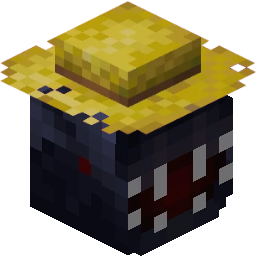
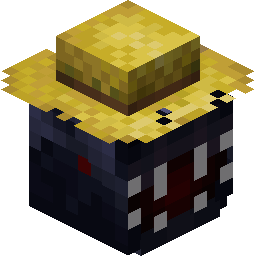
v2.1.3 - 26.1

diff --git a/src/client/java/namelessju/scathapro/Constants.java b/src/client/java/namelessju/scathapro/Constants.java
@@ -51,10 +51,11 @@ public class Constants
         return originalMagicFind * 1.05f;
     }
     
[2 lines of base64/hex data omitted]
     
     private static final String[] wormHeadTextures = new String[] {
-        /* default: */ wormHeadTextureDefault,
+        /* Scatha default: */ scathaHeadTextureDefault,
[4 lines of base64/hex data omitted]
@@ -72,7 +73,8 @@ public class Constants
[1 lines of base64/hex data omitted]
     };
     private static final String[] wormBodyTextures = new String[] {
[6 lines of base64/hex data omitted]
@@ -140,7 +142,7 @@ public class Constants
             .set(
                 DataComponents.PROFILE,
                 ResolvableProfile.createResolved(new GameProfile(Util.NIL_UUID, "", new PropertyMap(ImmutableMultimap.of(
-                    "textures", new Property("textures", wormHeadTextureDefault)
+                    "textures", new Property("textures", scathaHeadTextureDefault)
                 ))))
             )
             .set(DataComponents.CUSTOM_DATA, CustomData.EMPTY.update(data -> {

diff --git a/src/client/java/namelessju/scathapro/miscellaneous/data/enums/TimeFormat.java b/src/client/java/namelessju/scathapro/miscellaneous/data/enums/TimeFormat.java
@@ -5,40 +5,57 @@ import org.jetbrains.annotations.NotNull;
 import org.jetbrains.annotations.Nullable;
 
 import java.time.format.DateTimeFormatter;
-import java.time.format.FormatStyle;
 import java.time.temporal.TemporalAccessor;
+import java.util.Calendar;
+import java.util.Locale;
+import java.util.function.Supplier;
 
 public enum TimeFormat
 {
-    SYSTEM("Automatic", DateTimeFormatter.ofLocalizedTime(FormatStyle.SHORT), null),
-    FORMAT_24_HOURS("24 Hours", DateTimeFormatter.ofPattern("HH:mm"), null),
-    FORMAT_12_HOURS("12 Hours (AM/PM)", DateTimeFormatter.ofPattern("h:mm"), DateTimeFormatter.ofPattern(" a"));
+    SYSTEM("Automatic", new SupplierTimeFormatterContainer(
+        () -> getSystemTimeFormat().formatterContainer.hoursMinutesFormatter(),
+        () -> getSystemTimeFormat().formatterContainer.suffixFormatter()
+    )),
+    FORMAT_24_HOURS("24 Hours", new SimpleTimeFormatterContainer(
+        DateTimeFormatter.ofPattern("HH:mm"), null
+    )),
+    FORMAT_12_HOURS("12 Hours", new SimpleTimeFormatterContainer(
+        DateTimeFormatter.ofPattern("h:mm"), DateTimeFormatter.ofPattern(" a")
+    ));
     
-    private final DateTimeFormatter SECONDS_FORMATTER = DateTimeFormatter.ofPattern(":ss");
+    private static final boolean SYSTEM_IS_12_HOURS_FORMAT
+        = java.text.DateFormat.getTimeInstance(java.text.DateFormat.SHORT, Locale.getDefault())
+            .format(new Calendar.Builder().setFields(Calendar.HOUR_OF_DAY, 23, Calendar.MINUTE, 0).build().getTime())
+            .contains("11");
+    private static final DateTimeFormatter SECONDS_FORMATTER = DateTimeFormatter.ofPattern(":ss");
+    
+    private static @NotNull TimeFormat getSystemTimeFormat()
+    {
+        return SYSTEM_IS_12_HOURS_FORMAT ? FORMAT_12_HOURS : FORMAT_24_HOURS;
+    }
     
     private final @NotNull String displayName;
-    private final @NotNull DateTimeFormatter hoursMinutesFormatter;
-    private final @Nullable DateTimeFormatter suffixFormatter;
+    private final @NotNull TimeFormatterContainer formatterContainer;
     
-    TimeFormat(@NotNull String displayName, @NotNull DateTimeFormatter hoursMinutesFormatter, @Nullable DateTimeFormatter suffixFormatter)
+    TimeFormat(@NotNull String displayName, @NotNull TimeFormatterContainer formatterContainer)
     {
         this.displayName = displayName;
-        this.hoursMinutesFormatter = hoursMinutesFormatter;
-        this.suffixFormatter = suffixFormatter;
+        this.formatterContainer = formatterContainer;
     }
     
     public @NotNull String format(@NotNull TemporalAccessor time, boolean withSeconds)
     {
         StringBuilder stringBuilder = new StringBuilder();
-        stringBuilder.append(hoursMinutesFormatter.format(time));
+        stringBuilder.append(formatterContainer.hoursMinutesFormatter().format(time));
         if (withSeconds) stringBuilder.append(SECONDS_FORMATTER.format(time));
+        DateTimeFormatter suffixFormatter = formatterContainer.suffixFormatter();
         if (suffixFormatter != null) stringBuilder.append(suffixFormatter.format(time));
         return stringBuilder.toString();
     }
     
     public @NotNull String formatHoursMinutes(@NotNull TemporalAccessor time)
     {
-        return hoursMinutesFormatter.format(time);
+        return formatterContainer.hoursMinutesFormatter().format(time);
     }
     
     public @NotNull String formatSeconds(@NotNull TemporalAccessor time)
@@ -48,6 +65,7 @@ public enum TimeFormat
     
     public @Nullable String formatSuffix(@NotNull TemporalAccessor time)
     {
+        DateTimeFormatter suffixFormatter = formatterContainer.suffixFormatter();
         if (suffixFormatter == null) return null;
         return suffixFormatter.format(time);
     }
@@ -61,5 +79,34 @@ public enum TimeFormat
     public String toString()
     {
         return displayName;
+    }
+    
+    private interface TimeFormatterContainer
+    {
+        @NotNull DateTimeFormatter hoursMinutesFormatter();
+        @Nullable DateTimeFormatter suffixFormatter();
+    }
+    
+    private record SimpleTimeFormatterContainer(
+            @NotNull DateTimeFormatter hoursMinutesFormatter,
+            @Nullable DateTimeFormatter suffixFormatter
+        ) implements TimeFormatterContainer {}
+    
+    private record SupplierTimeFormatterContainer(
+            @NotNull Supplier<@NotNull DateTimeFormatter> hoursMinutesFormatterSupplier,
+            @NotNull Supplier<@Nullable DateTimeFormatter> suffixFormatterSupplier
+        ) implements TimeFormatterContainer
+    {
+        @Override
+        public @NotNull DateTimeFormatter hoursMinutesFormatter()
+        {
+            return hoursMinutesFormatterSupplier.get();
+        }
+        
+        @Override
+        public @Nullable DateTimeFormatter suffixFormatter()
+        {
+            return suffixFormatterSupplier.get();
+        }
     }
 }

diff --git a/src/client/java/namelessju/scathapro/gui/menus/screens/settings/MiscellaneousSettingsScreen.java b/src/client/java/namelessju/scathapro/gui/menus/screens/settings/MiscellaneousSettingsScreen.java
@@ -19,6 +19,7 @@ import net.minecraft.network.chat.MutableComponent;
 import org.apache.commons.compress.utils.Lists;
 import org.jspecify.annotations.NonNull;
 
+import java.time.LocalTime;
 import java.util.List;
 
 public class MiscellaneousSettingsScreen extends ConfigScreen
@@ -42,9 +43,12 @@ public class MiscellaneousSettingsScreen extends ConfigScreen
                 config.accessibility.timeFormat.get()
             )
             .withValues(TimeFormat.values())
+            .withTooltip(value -> Tooltip.create(Component.literal(
+                "Example: " + value.format(LocalTime.now(), false)
+            ).withStyle(ChatFormatting.GRAY)))
             .create(
                 Component.literal("Time Format"),
-                (button, value) -> scathaPro.config.accessibility.timeFormat.set(value)
+                (_, value) -> scathaPro.config.accessibility.timeFormat.set(value)
             )
         );
         list.addSingleColumn(CycleButton.builder(
@@ -52,16 +56,19 @@ public class MiscellaneousSettingsScreen extends ConfigScreen
                 config.accessibility.dateFormat.get()
             )
             .withValues(DateFormat.values())
+            .withTooltip(value -> Tooltip.create(Component.literal(
+                "Example: " + value.format(TimeUtil.today())
+            ).withStyle(ChatFormatting.GRAY)))
             .create(
                 Component.literal("Date Format"),
-                (button, value) -> scathaPro.config.accessibility.dateFormat.set(value)
+                (_, value) -> scathaPro.config.accessibility.dateFormat.set(value)
             )
         );
         
         list.addDoubleColumn(booleanConfigButton(
             "Automatic Bestiary Parsing",
             config.miscellaneous.automaticStatsParsingEnabled,
-            value -> Tooltip.create(
+            _ -> Tooltip.create(
                 Component.literal("Automatically reads kills and bestiary Magic Find from the worm bestiary menu")
                     .withStyle(ChatFormatting.GRAY)
             ), null
@@ -69,10 +76,10 @@ public class MiscellaneousSettingsScreen extends ConfigScreen
         
         list.addDoubleColumn(booleanConfigButton(
             "High Contrast Colors", config.accessibility.useHighContrastColors,
-            value -> Tooltip.create(
+            _ -> Tooltip.create(
                 Component.literal("Turns gray overlay\nand title text to white").withStyle(ChatFormatting.GRAY)
             ),
-            (button, value) -> scathaPro.mainOverlay.updateContrast()
+            (_, _) -> scathaPro.mainOverlay.updateContrast()
         ));
         
         if (scathaPro.getProfileData().lastAprilFoolsJokeShownYear.getOr(-1) >= 0)
@@ -115,7 +122,7 @@ public class MiscellaneousSettingsScreen extends ConfigScreen
                 googlyEyesButton = booleanConfigButton(
                     "Overlay Icon Googly Eyes",
                     config.unlockables.overlayIconGooglyEyesEnabled,
-                    null, (button, value) -> updateGooglyEyesButtonEnabled()
+                    null, (_, _) -> updateGooglyEyesButtonEnabled()
                 );
                 updateGooglyEyesButtonEnabled();
                 list.addDoubleColumn(googlyEyesButton);

diff --git a/src/client/java/namelessju/scathapro/gui/menus/screens/settings/PetDropSettingsScreen.java b/src/client/java/namelessju/scathapro/gui/menus/screens/settings/PetDropSettingsScreen.java
@@ -10,6 +10,7 @@ import net.minecraft.client.gui.components.Button;
 import net.minecraft.client.gui.components.Tooltip;
 import net.minecraft.client.gui.layouts.HeaderAndFooterLayout;
 import net.minecraft.client.gui.screens.Screen;
+import net.minecraft.core.registries.BuiltInRegistries;
 import net.minecraft.network.chat.Component;
 import net.minecraft.util.Mth;
 import net.minecraft.world.item.Items;
@@ -46,6 +47,7 @@ public class PetDropSettingsScreen extends ConfigScreen
                     .withStyle(ChatFormatting.GRAY)
             ), null
         ));
+        
         Button popupPreviewButton;
         gridBuilder.addSingleCell(popupPreviewButton = Button.builder(Component.literal("Play Preview"),
             _ -> scathaPro.itemPopupRenderer.popup(
@@ -55,15 +57,14 @@ public class PetDropSettingsScreen extends ConfigScreen
                     true
                 )
             ).build());
-        // No idea what method you're supposed to use instead so just ignore the damn warning
-        //noinspection deprecation
-        if (!Items.PLAYER_HEAD.builtInRegistryHolder().areComponentsBound())
+        if (!BuiltInRegistries.ITEM.wrapAsHolder(Items.PLAYER_HEAD).areComponentsBound())
         {
             popupPreviewButton.active = false;
             popupPreviewButton.setTooltip(Tooltip.create(
                 Component.literal("Items aren't loaded yet,\ncannot render preview").withStyle(ChatFormatting.YELLOW)
             ));
         }
+        
         gridBuilder.addGap();
         gridBuilder.addSingleCell(booleanConfigButton("Firework Explosion", config.petDrop.fireworkEnabled,
             _ -> Tooltip.create(
@@ -76,6 +77,12 @@ public class PetDropSettingsScreen extends ConfigScreen
         gridBuilder.addToContent(layout);
         
         addDoneButtonFooter();
+    }
+    
+    @Override
+    public boolean isPauseScreen()
+    {
+        return false;
     }
     
     @Override

diff --git a/src/client/java/namelessju/scathapro/files/legacy/LegacyConfig.java b/src/client/java/namelessju/scathapro/files/legacy/LegacyConfig.java
@@ -32,7 +32,7 @@ public class LegacyConfig extends ScathaProFile
     
     public LegacyConfig(ScathaPro scathaPro)
     {
-        super(scathaPro, scathaPro.getConfigDirectoryPath().resolve("config.cfg").toFile());
+        super(scathaPro, scathaPro.getSaveDirectoryPath().resolve("config.cfg").toFile());
     }
     
     private void setupMappings()
@@ -135,9 +135,9 @@ public class LegacyConfig extends ScathaProFile
         mappings.put("other/hideWormSpawnMessage", new BooleanMapper(config.miscellaneous.hideWormSpawnMessage));
         mappings.put("other/dryStreakMessage", new BooleanMapper(config.miscellaneous.dryStreakMessageEnabled));
         mappings.put("other/dailyScathaFarmingStreakMessage", new BooleanMapper(config.miscellaneous.dailyStreakMessagesEnabled));
-        mappings.put("other/chatCopy", new EnumMapper<>(config.miscellaneous.chatCopyButtonMode, enumMappings -> {
-            enumMappings.put("true", ChatCopyButtonMode.SUGGEST_MESSAGE);
-        }));
+        mappings.put("other/chatCopy", new EnumMapper<>(config.miscellaneous.chatCopyButtonMode,
+            enumMappings -> enumMappings.put("true", ChatCopyButtonMode.SUGGEST_MESSAGE)
+        ));
         mappings.put("other/wormSpawnTimer", new BooleanMapper(config.miscellaneous.wormSpawnTimerMessageEnabled));
         mappings.put("other/showRotationAngles", new BooleanMapper(config.miscellaneous.rotationAnglesEnabled));
         mappings.put("other/rotationAnglesYawOnly", new BooleanMapper(config.miscellaneous.rotationAnglesYawOnly));

diff --git a/src/client/java/namelessju/scathapro/util/UnicodeSymbol.java b/src/client/java/namelessju/scathapro/util/UnicodeSymbol.java
@@ -7,11 +7,11 @@ public final class UnicodeSymbol
     // Hypixel specific symbols
     public static final char hypixelArrowRight = '\u279C';
     public static final char hypixelHeart = '\u2764';
-    public static final char magicFind = '\u272F';
-    public static final char petLuck = '\u2663';
-    public static final char mobTypeIconSubterranean = '\u26CF';
-    public static final char mobTypeIconElusive = '\u2743';
-    public static final char mobTypeIconShielded = '\u26E8';
+    public static final char magicFind = '\uE01A';
+    public static final char petLuck = '\uE013';
+    public static final char mobTypeIconSubterranean = '\uE083';
+    public static final char mobTypeIconElusive = '\uE077';
+    public static final char mobTypeIconShielded = '\uE080';
     
     // Generic symbols
     public static final String clipboard = "\uD83D\uDCCB";

diff --git a/src/client/java/namelessju/scathapro/entitydetection/entitydetector/WormDetector.java b/src/client/java/namelessju/scathapro/entitydetection/entitydetector/WormDetector.java
@@ -18,11 +18,11 @@ public class WormDetector extends EntityDetector
             return null;
         }
         
-        if (unformattedEntityName.contains("[Lv5] Worm "))
+        if (unformattedEntityName.contains("[Lv5]") && unformattedEntityName.contains(" Worm "))
         {
             return new DetectedWorm(scathaPro, entity, false);
         }
-        if (unformattedEntityName.contains("[Lv10] Scatha "))
+        if (unformattedEntityName.contains("[Lv10]") && unformattedEntityName.contains(" Scatha "))
         {
             return new DetectedWorm(scathaPro, entity, true);
         }

diff --git a/src/client/java/namelessju/scathapro/miscellaneous/data/enums/DateFormat.java b/src/client/java/namelessju/scathapro/miscellaneous/data/enums/DateFormat.java
@@ -22,7 +22,7 @@ public enum DateFormat
         Locale.getDefault()
     )),
     DD_MM_YYYY("DD.MM.YYYY", DateTimeFormatter.ofPattern("dd.MM.uuuu")),
-    MM_DD_YYYY("MM/DD/YYYY", DateTimeFormatter.ofPattern("MM/dd/uuuu"));
+    MM_DD_YYYY("M/D/YYYY", DateTimeFormatter.ofPattern("M/d/uuuu"));
     
     private final String displayName;
     private final DateTimeFormatter formatter;

diff --git a/src/client/java/namelessju/scathapro/files/legacy/LegacyPersistentData.java b/src/client/java/namelessju/scathapro/files/legacy/LegacyPersistentData.java
@@ -18,7 +18,7 @@ public class LegacyPersistentData extends ScathaProFile
 {
     public LegacyPersistentData(ScathaPro scathaPro)
     {
-        super(scathaPro, scathaPro.getConfigDirectoryPath().resolve("persistentData.json").toFile());
+        super(scathaPro, scathaPro.getSaveDirectoryPath().resolve("persistentData.json").toFile());
     }
     
     @Override
